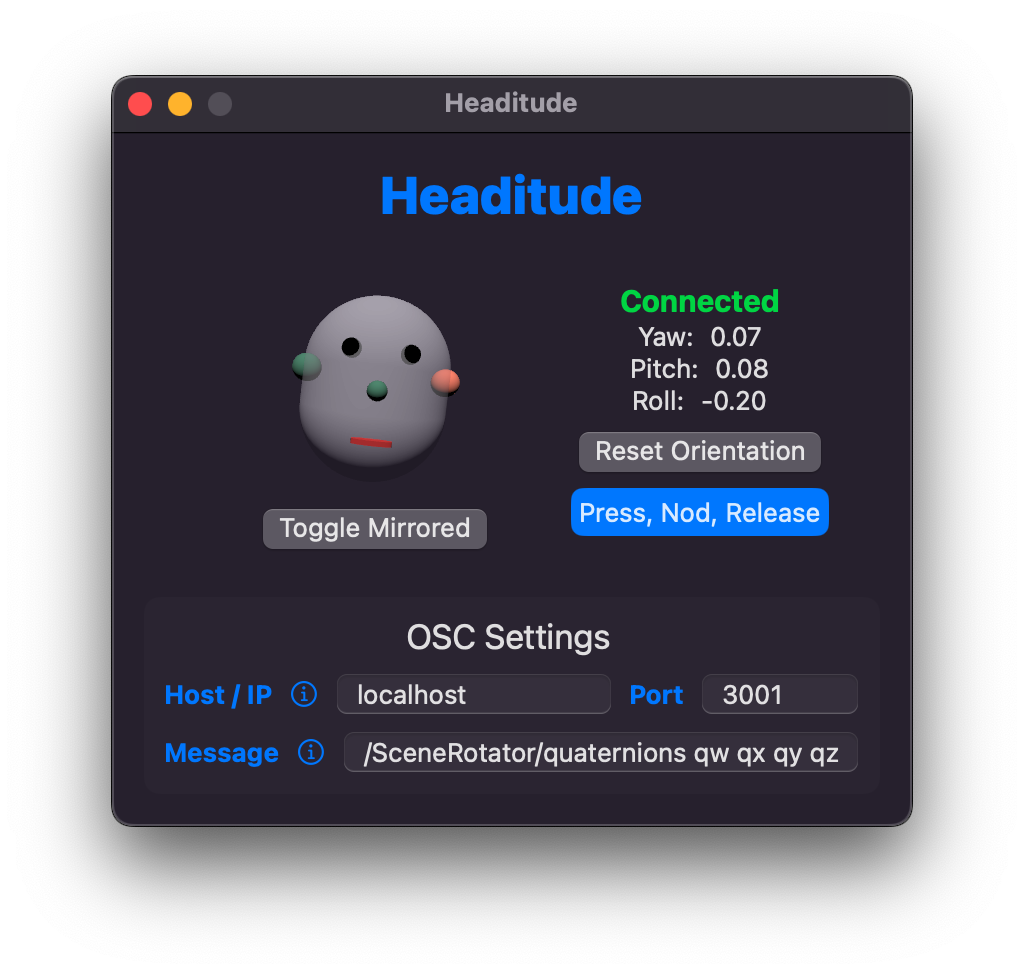
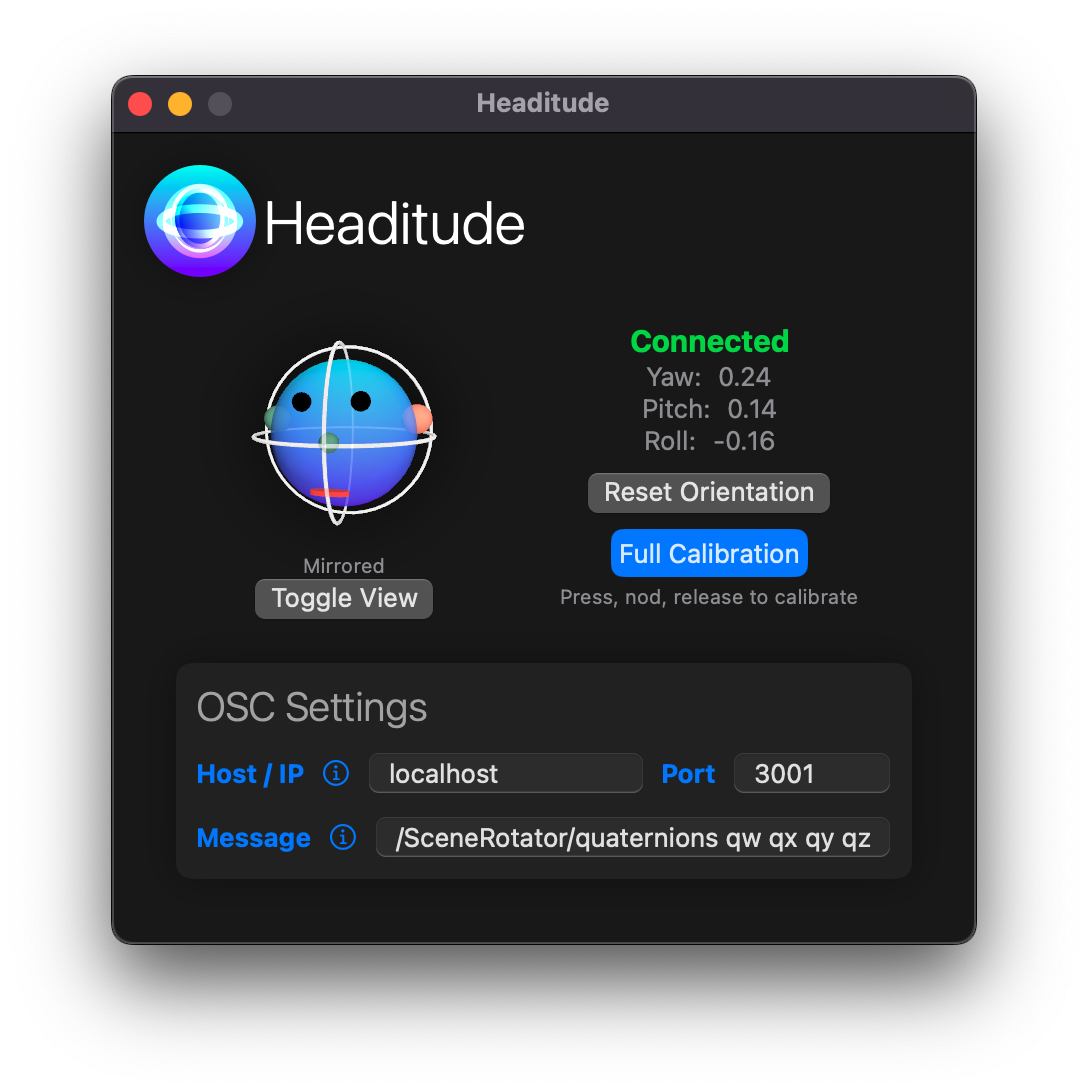
redesign

Changed region(s): [[0.0938, 0.0616, 0.9062, 0.8932], [0.2188, 0.2772, 0.8125, 0.5852]]

diff --git a/Headitude/ContentView.swift b/Headitude/ContentView.swift
@@ -13,86 +13,40 @@ import SwiftUI
 struct ContentView: View {
     @EnvironmentObject private var appState: AppState
 
-    @State private var yaw = 0.0
-    @State private var pitch = 0.0
-    @State private var roll = 0.0
-    @Binding var connected: Bool
-
-    @State private var mirrored = false
-
     var body: some View {
-        VStack {
-            Text("Headitude")
-                .font(.largeTitle)
-                .fontWeight(.heavy)
-                .foregroundColor(.blue)
-                .padding()
+        VStack(alignment: .leading) {
+            HStack(spacing: 4) {
+                Image(.logo)
+                    .shadow(radius: 10)
+                Text("Headitude")
+                    .font(.system(size: 30))
+                    .fontWeight(.light)
+                    .foregroundColor(.white)
+            }
 
             if !appState.accessAuthorized {
                 AccessInfo().padding()
             } else {
                 HStack {
-                    VStack(spacing: 0) {
-                        RotationViewer(scene: $appState.scene).frame(width: 180, height: 120)
-                        Text(mirrored ? "Mirrored" : "Normal view").font(.footnote)
-                        Button("Toggle View") {
-                            appState.scene.toggleMirrored()
-                            self.mirrored = appState.scene.mirrored
-                        }
-                    }
+                    RotationViewerGroup().frame(width: 200)
 
-                    VStack {
-                        Text(connected ? "Connected" : "Not Connected")
-                            .font(.title3)
-                            .fontWeight(.bold)
-                            .foregroundColor(connected ? Color.green : Color.red)
-
-                        HStack {
-                            Text("Yaw:")
-                            Text(String(format: "%.2f", yaw))
-                        }
-
-                        HStack {
-                            Text("Pitch:")
-                            Text(String(format: "%.2f", pitch))
-                        }
-
-                        HStack {
-                            Text("Roll:")
-                            Text(String(format: "%.2f", roll))
-                        }
-
-                        Button(action: {
-                            appState.headphoneMotionDetector.calibration.resetOrientation()
-                        }) {
-                            Text("Reset Orientation")
-                        }
-
-                        PressedReleaseButton(buttonText: "Press, Nod, Release", onDown: { appState.headphoneMotionDetector.calibration.start() }, onRelease: { appState.headphoneMotionDetector.calibration.finish() })
-
-                    }.frame(minWidth: 120)
+                    ConnectionCalibrationView(connected: $appState.headphoneMotionDetector.connected).frame(minWidth: 120)
                 }
 
                 OSCSenderView(oscSender: $appState.oscSender, isValid: $appState.oscSender.protocolValid).frame(width: 400)
             }
         }
-        .onChange(of: appState.quaternion) { _, newRotation in
-            let quaternion = newRotation.toAmbisonicCoordinateSystem()
-            let taitBryan = quaternion.toTaitBryan()
-
-            yaw = taitBryan.yaw
-            pitch = taitBryan.pitch
-            roll = taitBryan.roll
-        }
         .onDisappear {
             // I don't think that's the right place to store the settings, but it works for now.
             appState.oscSender.storeSettings()
         }
+        .padding()
+        .background(Color(hex: 0x191919))
     }
 }
 
 #Preview {
-    ContentView(connected: .constant(false)).environmentObject(AppState())
+    ContentView().environmentObject(AppState())
 }
 
 struct AccessInfo: View {
@@ -143,5 +97,17 @@ struct PressedReleaseButton: View {
                     self.pressing = false
                     onRelease()
                 })
+    }
+}
+
+extension Color {
+    init(hex: UInt32, alpha: Double = 1.0) {
+        self.init(
+            .sRGB,
+            red: Double((hex & 0xFF0000) >> 16) / 255.0,
+            green: Double((hex & 0x00FF00) >> 8) / 255.0,
+            blue: Double(hex & 0x0000FF) / 255.0,
+            opacity: alpha
+        )
     }
 }

diff --git a/Headitude/HeadScene.swift b/Headitude/HeadScene.swift
@@ -33,11 +33,10 @@ class HeadScene: SCNScene {
 
         // create head
         let head = SCNNode()
-        let headGeometry = SCNCapsule(capRadius: 1, height: 2.5)
+        let headGeometry = SCNSphere(radius: 1)
         head.geometry = headGeometry
-        headGeometry.firstMaterial?.diffuse.contents = NSColor(
-            calibratedRed: 1, green: 1, blue: 1, alpha: 0.4
-        )
+        headGeometry.firstMaterial?.diffuse.contents = NSImage(resource: .gradient)
+        headGeometry.firstMaterial?.transparency = 0.8
         head.position = SCNVector3(x: 0, y: 0, z: 0)
 
         // left eye
@@ -108,8 +107,49 @@ class HeadScene: SCNScene {
         // set the position of the light node
         lightNode.position = SCNVector3(x: 0, y: 5, z: 5)
 
+        let lightNode2 = SCNNode()
+        // create a new light object
+        let light2 = SCNLight()
+        light2.type = .omni
+        // set the light's color to white
+        light2.color = NSColor.white
+        lightNode2.light = light
+        // set the position of the light node
+        lightNode2.position = SCNVector3(x: 3, y: -5, z: 10)
+
+        let ring = SCNNode()
+        let ringGeometry = SCNTorus(ringRadius: 1.2, pipeRadius: 0.02)
+        ring.geometry = ringGeometry
+        ringGeometry.firstMaterial?.diffuse.contents = NSColor(
+            calibratedRed: 1, green: 1, blue: 1, alpha: 0.5
+        )
+        ringGeometry.firstMaterial?.emission.contents = NSColor(.white)
+
+        let ring2 = SCNNode()
+        let ringGeometry2 = SCNTorus(ringRadius: 1.2, pipeRadius: 0.02)
+        ring2.geometry = ringGeometry2
+        ringGeometry2.firstMaterial?.diffuse.contents = NSColor(
+            calibratedRed: 1, green: 1, blue: 1, alpha: 0.5
+        )
+        ringGeometry2.firstMaterial?.emission.contents = NSColor(.white)
+        ring2.rotation = SCNVector4(x: 0, y: 0, z: 1, w: 3.14 / 2)
+
+        let ring3 = SCNNode()
+        let ringGeometry3 = SCNTorus(ringRadius: 1.2, pipeRadius: 0.02)
+        ring3.geometry = ringGeometry3
+        ringGeometry3.firstMaterial?.diffuse.contents = NSColor(
+            calibratedRed: 1, green: 1, blue: 1, alpha: 0.5
+        )
+        ringGeometry3.firstMaterial?.emission.contents = NSColor(.white)
+        ring3.rotation = SCNVector4(x: 1, y: 0, z: 0, w: 3.14 / 2)
+
+        headGroup.addChildNode(ring)
+        headGroup.addChildNode(ring2)
+        headGroup.addChildNode(ring3)
+
         // add the light node to the scene
         rootNode.addChildNode(lightNode)
+        rootNode.addChildNode(lightNode2)
         headGroup.addChildNode(head)
         headGroup.addChildNode(leftEye)
         headGroup.addChildNode(rightEye)
@@ -133,6 +173,8 @@ class HeadScene: SCNScene {
         // Set camera to look at the origin
         let constraint = SCNLookAtConstraint(target: rootNode)
         cameraNode.constraints = [constraint]
+
+        toggleMirrored()
     }
 
     @available(*, unavailable)

diff --git a/Headitude/ConnectionCalibrationView.swift b/Headitude/ConnectionCalibrationView.swift
@@ -1,0 +1,55 @@
+import SwiftUI
+
+struct ConnectionCalibrationView: View {
+    @EnvironmentObject private var appState: AppState
+
+    @State private var yaw = 0.0
+    @State private var pitch = 0.0
+    @State private var roll = 0.0
+    @Binding var connected: Bool
+
+    @State private var calibration = Calibration()
+
+    var body: some View {
+        VStack {
+            Text(connected ? "Connected" : "Not Connected")
+                .font(.title3)
+                .fontWeight(.bold)
+                .foregroundColor(connected ? Color.green : Color.red)
+
+            HStack {
+                Text("Yaw:").foregroundColor(.gray)
+                Text(String(format: "%.2f", yaw)).foregroundColor(.gray)
+            }
+
+            HStack {
+                Text("Pitch:").foregroundColor(.gray)
+                Text(String(format: "%.2f", pitch)).foregroundColor(.gray)
+            }
+
+            HStack {
+                Text("Roll:").foregroundColor(.gray)
+                Text(String(format: "%.2f", roll)).foregroundColor(.gray)
+            }
+
+            Button(action: {
+                appState.headphoneMotionDetector.calibration.resetOrientation()
+            }) {
+                Text("Reset Orientation")
+            }
+
+            PressedReleaseButton(buttonText: "Full Calibration", onDown: { appState.headphoneMotionDetector.calibration.start() }, onRelease: { appState.headphoneMotionDetector.calibration.finish() })
+            Text("Press, nod, release to calibrate")
+                .font(.footnote)
+                .foregroundColor(.gray)
+        }
+        .onChange(of: appState.quaternion) { _, newRotation in
+            let quaternion = newRotation.toAmbisonicCoordinateSystem()
+            let taitBryan = quaternion.toTaitBryan()
+
+            yaw = taitBryan.yaw
+            pitch = taitBryan.pitch
+            roll = taitBryan.roll
+        }
+    }
+}

diff --git a/Headitude/HeaditudeApp.swift b/Headitude/HeaditudeApp.swift
@@ -19,18 +19,14 @@ class AppState: ObservableObject {
     private var accessCheckTimer = Timer()
     @Published var accessAuthorized = HeadphoneMotionDetector.isAuthorized()
 
-    var headphoneMotionDetector = HeadphoneMotionDetector(updateInterval: 0.01)
+    var headphoneMotionDetector = HeadphoneMotionDetector(updateInterval: 0.02)
     var oscSender = OSCSender()
-
-    let quaternionUpdate = PassthroughSubject<Void, Never>()
 
     init() {
         headphoneMotionDetector.onUpdate = { [self] in
             quaternion = self.headphoneMotionDetector.data.attitude.quaternion
             correctedQuaternion = self.headphoneMotionDetector.correctedQuaternion
             scene.setQuaternion(q: self.correctedQuaternion)
-
-            quaternionUpdate.send()
 
             oscSender.setQuaternion(q: correctedQuaternion)
         }
@@ -59,7 +55,7 @@ struct HeaditudeApp: App {
 
     var body: some Scene {
         WindowGroup {
-            ContentView(connected: $appState.headphoneMotionDetector.connected).fixedSize().environmentObject(appState)
+            ContentView().fixedSize().environmentObject(appState).preferredColorScheme(.dark)
         }.windowResizability(.contentSize)
     }
 }

diff --git a/Headitude/OSCSender.swift b/Headitude/OSCSender.swift
@@ -121,8 +121,8 @@ struct OSCSenderView: View {
     @State private var isMessagePopoverVisible = false
 
     var body: some View {
-        VStack(spacing: 7) {
-            Text("OSC Settings ").font(.title2)
+        VStack(alignment: .leading, spacing: 10) {
+            Text("OSC Settings ").font(.system(size: 20, weight: .light)).foregroundStyle(Color(hex: 0xACACAC))
             HStack {
                 HStack {
                     Text("Host / IP")
@@ -181,8 +181,9 @@ struct OSCSenderView: View {
             }
         }
         .padding(10)
-        .background(.white.opacity(0.02)).cornerRadius(8)
+        .background(Color(hex: 0x252525)).cornerRadius(8)
         .padding()
+        .shadow(radius: 10)
     }
 }
 

diff --git a/Headitude/RotationViewer.swift b/Headitude/RotationViewer.swift
@@ -27,3 +27,20 @@ struct RotationViewer: NSViewRepresentable {
 
     func updateNSView(_: SCNView, context _: Context) {}
 }
+
+struct RotationViewerGroup: View {
+    @EnvironmentObject private var appState: AppState
+
+    @State private var mirrored = true
+    var body: some View {
+        VStack(spacing: 0) {
+            RotationViewer(scene: $appState.scene).frame(width: 180, height: 120)
+                .shadow(color: .black, radius: 20)
+            Text(mirrored ? "Mirrored" : "Normal view").font(.footnote).foregroundColor(.gray)
+            Button("Toggle View") {
+                appState.scene.toggleMirrored()
+                self.mirrored = appState.scene.mirrored
+            }
+        }
+    }
+}
